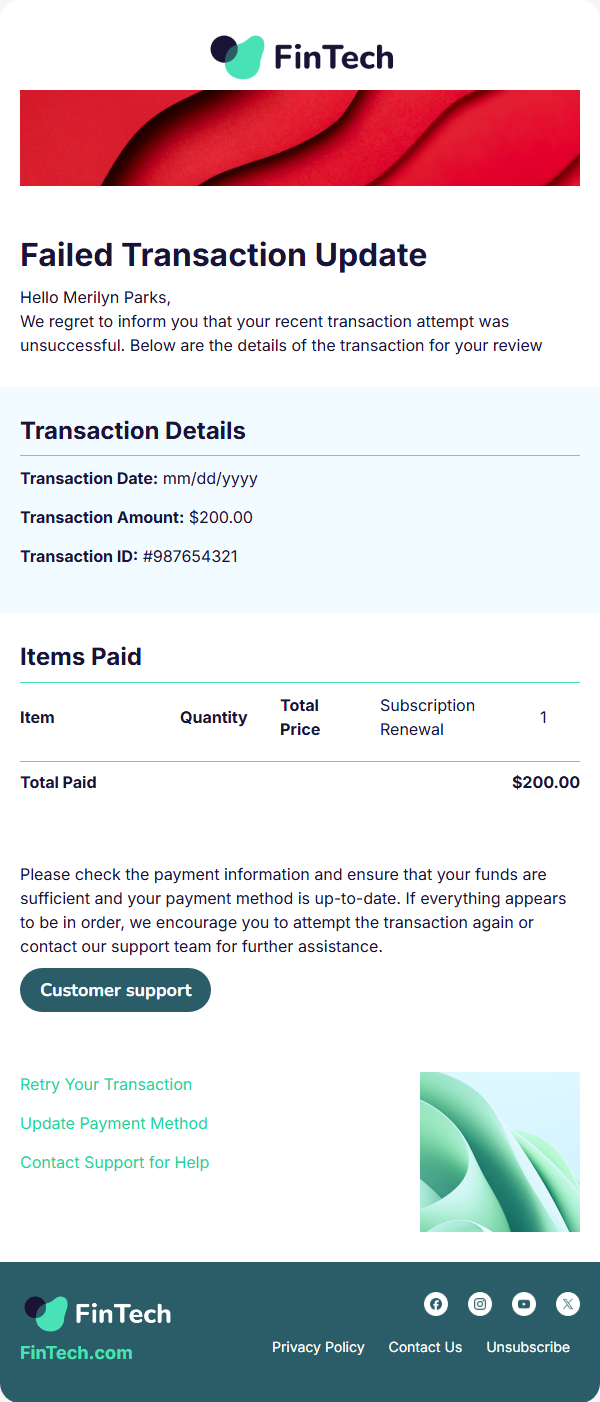
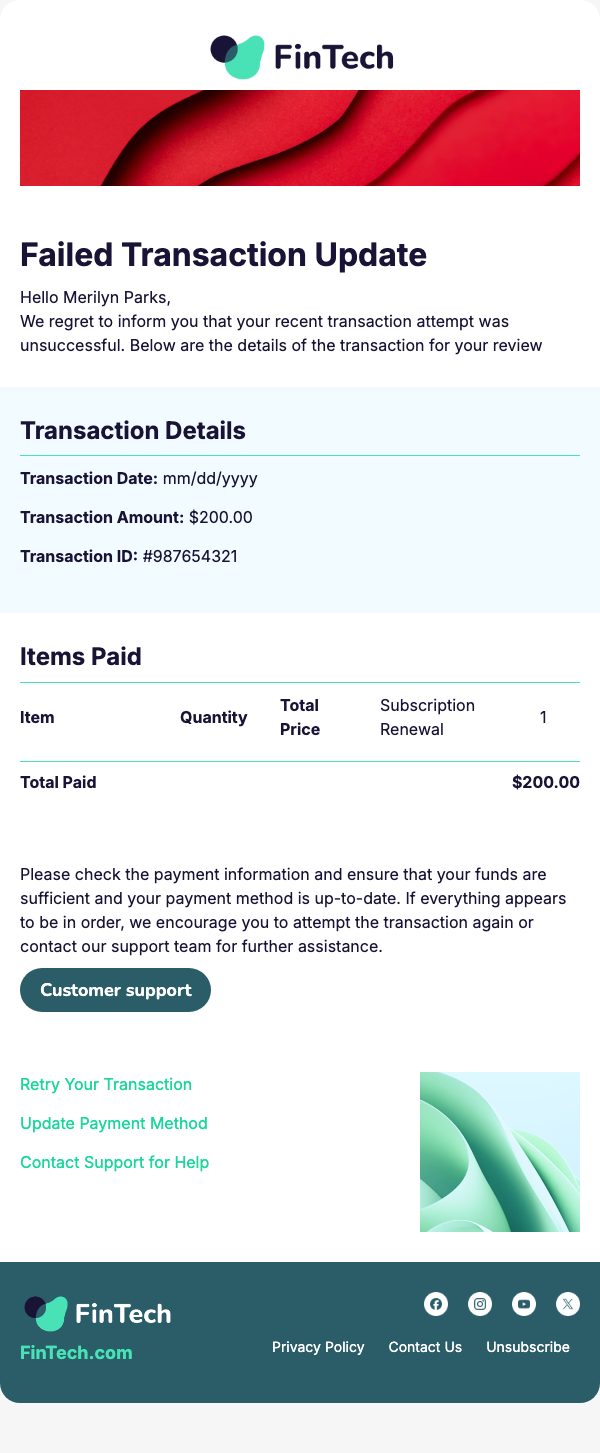
changes

diff --git a/scripts/gen.py b/scripts/gen.py
@@ -2,15 +2,16 @@ from playwright.sync_api import sync_playwright
 from PIL import Image
 import os
 
-HTML_FILE = "../environment_day_template/environment_day_template.html"
-FULL_IMG = "../environment_day_template/email_full.png"
-THUMB_IMG = "../environment_day_template/email_thumb.png"
+HTML_FILE = "../transaction-fail-update-template/transaction-fail-update-template.html"
+FULL_IMG = "../transaction-fail-update-template/email_full.png"
+THUMB_IMG = "../transaction-fail-update-template/email_thumb.png"
 THUMB_HEIGHT = 600  # fixed height for thumbnail
 
 def take_screenshot():
     with sync_playwright() as p:
         browser = p.chromium.launch()
-        page = browser.new_page(viewport={"width": 1400, "height": 2000})  # larger viewport to prevent clipping
+        # Start with a large viewport width but minimal height
+        page = browser.new_page(viewport={"width": 1400, "height": 800})
 
         # Load local HTML file
         path = f"file://{os.path.abspath(HTML_FILE)}"
@@ -19,7 +20,20 @@ def take_screenshot():
         # Wait for full body render
         page.wait_for_selector("body")
 
-        # Get body dimensions
+        # Get body dimensions to determine actual content height
+        body_element = page.query_selector("body")
+        body_box = body_element.bounding_box()
+        
+        if not body_box:
+            print("❌ Could not determine body bounding box.")
+            browser.close()
+            return
+            
+        # Set viewport height to match content height (with small buffer)
+        content_height = int(body_box['height']) + 50
+        page.set_viewport_size({"width": 1400, "height": content_height})
+        
+        # Re-get body dimensions after viewport adjustment
         body_element = page.query_selector("body")
         body_box = body_element.bounding_box()
 

diff --git a/README.md b/README.md
@@ -1,1 +1,313 @@
-# EmailTemplates
+# Email Templates Collection
+
+A comprehensive collection of responsive HTML email templates for various occasions and business needs.
+
+## 📧 Template Gallery
+
+### 🌱 Agriculture & Environment
+<table>
+<tr>
+<td width="50%">
+<h4>Agriculture Newsletter</h4>
+<img src="agriculture-template/email_thumb.png" alt="Agriculture Template" width="100%">
+</td>
+<td width="50%">
+<h4>Environment Day</h4>
+<img src="environment_day_template/email_thumb.png" alt="Environment Day Template" width="100%">
+</td>
+</tr>
+</table>
+
+### ✈ Travel & Transportation
+<table>
+<tr>
+<td width="50%">
+<h4>Airline Ticket</h4>
+<img src="airline_ticket_template/email_thumb.png" alt="Airline Ticket Template" width="100%">
+</td>
+<td width="50%">
+<h4>Holiday Booking</h4>
+<img src="holiday-booking-temp/email_thumb.png" alt="Holiday Booking Template" width="100%">
+</td>
+</tr>
+<tr>
+<td width="50%">
+<h4>World Tourism Day</h4>
+<img src="World_Tourism_Day_template/email_thumb.png" alt="World Tourism Day Template" width="100%">
+</td>
+<td width="50%">
+<h4>Car Insurance</h4>
+<img src="car_insurance_template/email_thumb.png" alt="Car Insurance Template" width="100%">
+</td>
+</tr>
+</table>
+
+### 🎓 Education & Back to School
+<table>
+<tr>
+<td width="50%">
+<h4>Back to School</h4>
+<img src="back_to_school_template/email_thumb.png" alt="Back to School Template" width="100%">
+</td>
+<td width="50%">
+<h4>Lunchbox Recipes & Tips</h4>
+<img src="back-to-school-lunchbox-recipes-tips/email_thumb.png" alt="Lunchbox Recipes Template" width="100%">
+</td>
+</tr>
+<tr>
+<td width="50%">
+<h4>Teachers Day Sale</h4>
+<img src="teachers_day_sale_template/email_thumb.png" alt="Teachers Day Sale Template" width="100%">
+</td>
+<td width="50%">
+</td>
+</tr>
+</table>
+
+### 🛍 E-commerce & Sales
+<table>
+<tr>
+<td width="50%">
+<h4>Black Friday Sale</h4>
+<img src="black-friday-sale-template/email_thumb.png" alt="Black Friday Sale Template" width="100%">
+</td>
+<td width="50%">
+<h4>One Day Sale</h4>
+<img src="one-day-sale-template/email_thumb.png" alt="One Day Sale Template" width="100%">
+</td>
+</tr>
+<tr>
+<td width="50%">
+<h4>Christmas Sale</h4>
+<img src="christmas_sale_template/email_thumb.png" alt="Christmas Sale Template" width="100%">
+</td>
+<td width="50%">
+<h4>Furniture Sale</h4>
+<img src="furniture_sale_template/email_thumb.png" alt="Furniture Sale Template" width="100%">
+</td>
+</tr>
+<tr>
+<td width="50%">
+<h4>Jewelry Sale</h4>
+<img src="jewelry_sale_template/email_thumb.png" alt="Jewelry Sale Template" width="100%">
+</td>
+<td width="50%">
+<h4>Running Shoes</h4>
+<img src="running-shoes-template/email_thumb.png" alt="Running Shoes Template" width="100%">
+</td>
+</tr>
+</table>
+
+### 🍰 Food & Beverages
+<table>
+<tr>
+<td width="50%">
+<h4>Bakery Template</h4>
+<img src="bakery-template/email_thumb.png" alt="Bakery Template" width="100%">
+</td>
+<td width="50%">
+<h4>Food Festival</h4>
+<img src="food_fest_template/email_thumb.png" alt="Food Festival Template" width="100%">
+</td>
+</tr>
+<tr>
+<td width="50%">
+<h4>Vegan Day</h4>
+<img src="vegan_day_template/email_thumb.png" alt="Vegan Day Template" width="100%">
+</td>
+<td width="50%">
+</td>
+</tr>
+</table>
+
+### 🎉 Celebrations & Events
+<table>
+<tr>
+<td width="50%">
+<h4>Birthday E-Voucher</h4>
+<img src="birthday_e-voucher/email_thumb.png" alt="Birthday E-Voucher Template" width="100%">
+</td>
+<td width="50%">
+<h4>Father's Day</h4>
+<img src="fathers_day_template/email_thumb.png" alt="Father's Day Template" width="100%">
+</td>
+</tr>
+<tr>
+<td width="50%">
+<h4>Halloween Party</h4>
+<img src="halloween_party_template/email_thumb.png" alt="Halloween Party Template" width="100%">
+</td>
+<td width="50%">
+<h4>Wedding</h4>
+<img src="wedding_template/email_thumb.png" alt="Wedding Template" width="100%">
+</td>
+</tr>
+</table>
+
+### 💄 Beauty & Wellness
+<table>
+<tr>
+<td width="50%">
+<h4>Flower Makeup</h4>
+<img src="flower-makeup-template/email_thumb.png" alt="Flower Makeup Template" width="100%">
+</td>
+<td width="50%">
+<h4>Fit Balance</h4>
+<img src="fit-balance-template/email_thumb.png" alt="Fit Balance Template" width="100%">
+</td>
+</tr>
+<tr>
+<td width="50%">
+<h4>Yoga Day</h4>
+<img src="yoga_day_template/email_thumb.png" alt="Yoga Day Template" width="100%">
+</td>
+<td width="50%">
+</td>
+</tr>
+</table>
+
+### 🎬 Entertainment
+<table>
+<tr>
+<td width="50%">
+<h4>Cine Mania</h4>
+<img src="cine-mania-template/email_thumb.png" alt="Cine Mania Template" width="100%">
+</td>
+<td width="50%">
+</td>
+</tr>
+</table>
+
+### 🏥 Health & Awareness
+<table>
+<tr>
+<td width="50%">
+<h4>Cancer Survivors Day</h4>
+<img src="Cancer_Survivors_Day_template/email_thumb.png" alt="Cancer Survivors Day Template" width="100%">
+</td>
+<td width="50%">
+</td>
+</tr>
+</table>
+
+### 🏗 Business & Services
+<table>
+<tr>
+<td width="50%">
+<h4>Construction</h4>
+<img src="construction_template/email_thumb.png" alt="Construction Template" width="100%">
+</td>
+<td width="50%">
+<h4>SaaS Email</h4>
+<img src="saas_email_template/email_thumb.png" alt="SaaS Email Template" width="100%">
+</td>
+</tr>
+</table>
+
+### 📦 E-commerce Operations
+<table>
+<tr>
+<td width="50%">
+<h4>Delivery Details</h4>
+<img src="delivery_details_template/email_thumb.png" alt="Delivery Details Template" width="100%">
+</td>
+<td width="50%">
+<h4>Order Promotion</h4>
+<img src="order_promotion_template/email_thumb.png" alt="Order Promotion Template" width="100%">
+</td>
+</tr>
+</table>
+
+### 🎁 Gift Cards & Vouchers
+<table>
+<tr>
+<td width="50%">
+<h4>E-Gift Card</h4>
+<img src="e-gift-card-template/email_thumb.png" alt="E-Gift Card Template" width="100%">
+</td>
+<td width="50%">
+</td>
+</tr>
+</table>
+
+### 👶 Kids & Family
+<table>
+<tr>
+<td width="50%">
+<h4>Kids Goods</h4>
+<img src="kids-goods-template/email_thumb.png" alt="Kids Goods Template" width="100%">
+</td>
+<td width="50%">
+</td>
+</tr>
+</table>
+
+### 🔐 Account & Security
+<table>
+<tr>
+<td width="50%">
+<h4>Password Reset</h4>
+<img src="password_reset_template/email_thumb.png" alt="Password Reset Template" width="100%">
+</td>
+<td width="50%">
+<h4>Verify Account</h4>
+<img src="verify-account-template/email_thumb.png" alt="Verify Account Template" width="100%">
+</td>
+</tr>
+<tr>
+<td width="50%">
+<h4>Welcome to Application</h4>
+<img src="welcome_to_application_template/email_thumb.png" alt="Welcome to Application Template" width="100%">
+</td>
+<td width="50%">
+<h4>Subscription Expiring</h4>
+<img src="subscription_expiring_template/email_thumb.png" alt="Subscription Expiring Template" width="100%">
+</td>
+</tr>
+<tr>
+<td width="50%">
+<h4>Transaction Failed</h4>
+<img src="transaction-fail-update-template/email_thumb.png" alt="Transaction Failed Template" width="100%">
+</td>
+<td width="50%">
+</td>
+</tr>
+</table>
+
+## 🛠 Features
+
+- **Responsive Design**: All templates are mobile-friendly and work across email clients
+- **Easy Customization**: Simple HTML structure for quick modifications
+- **High-Quality Images**: Professional images and graphics included
+- **Cross-Client Compatible**: Tested with major email providers
+- **Ready to Use**: Templates are production-ready
+
+## 📁 Project Structure
+
+Each template folder contains:
+- `*.html` - The main email template file
+- `assets/` - Images and resources used in the template
+- `email_full.png` - Full-size preview image
+- `email_thumb.png` - Thumbnail preview image
+
+## 🚀 Usage
+
+1. Choose a template from the gallery above
+2. Navigate to the template folder
+3. Open the HTML file and customize content, colors, and images as needed
+4. Test the template in your email client or ESP (Email Service Provider)
+
+## 🔧 Screenshot Generation
+
+Use the included screenshot generator script to create preview images:
+
+```bash
+cd scripts
+python3 gen.py
+```
+
+The script automatically generates both full-size and thumbnail preview images for any template.
+
+## 📄 License
+
+This project is open source and available under the [MIT License](LICENSE).
